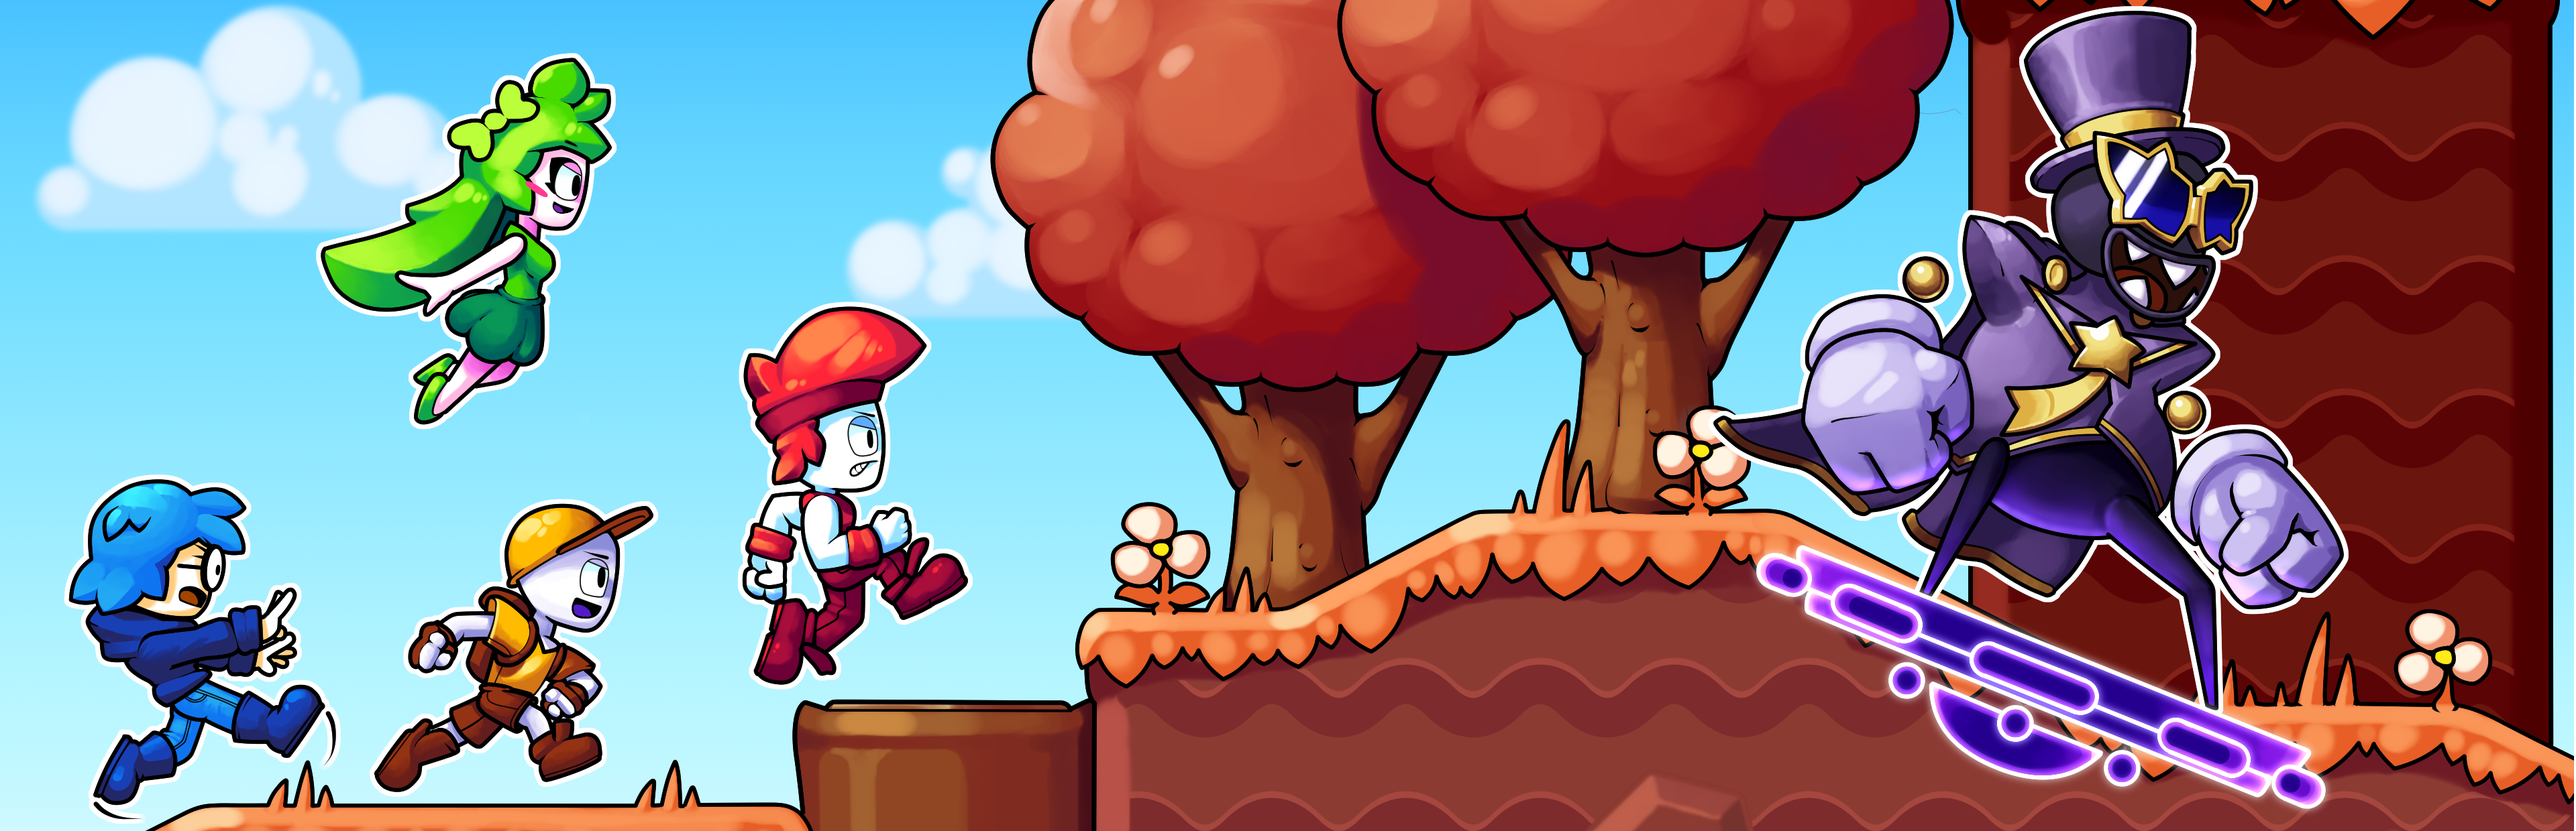
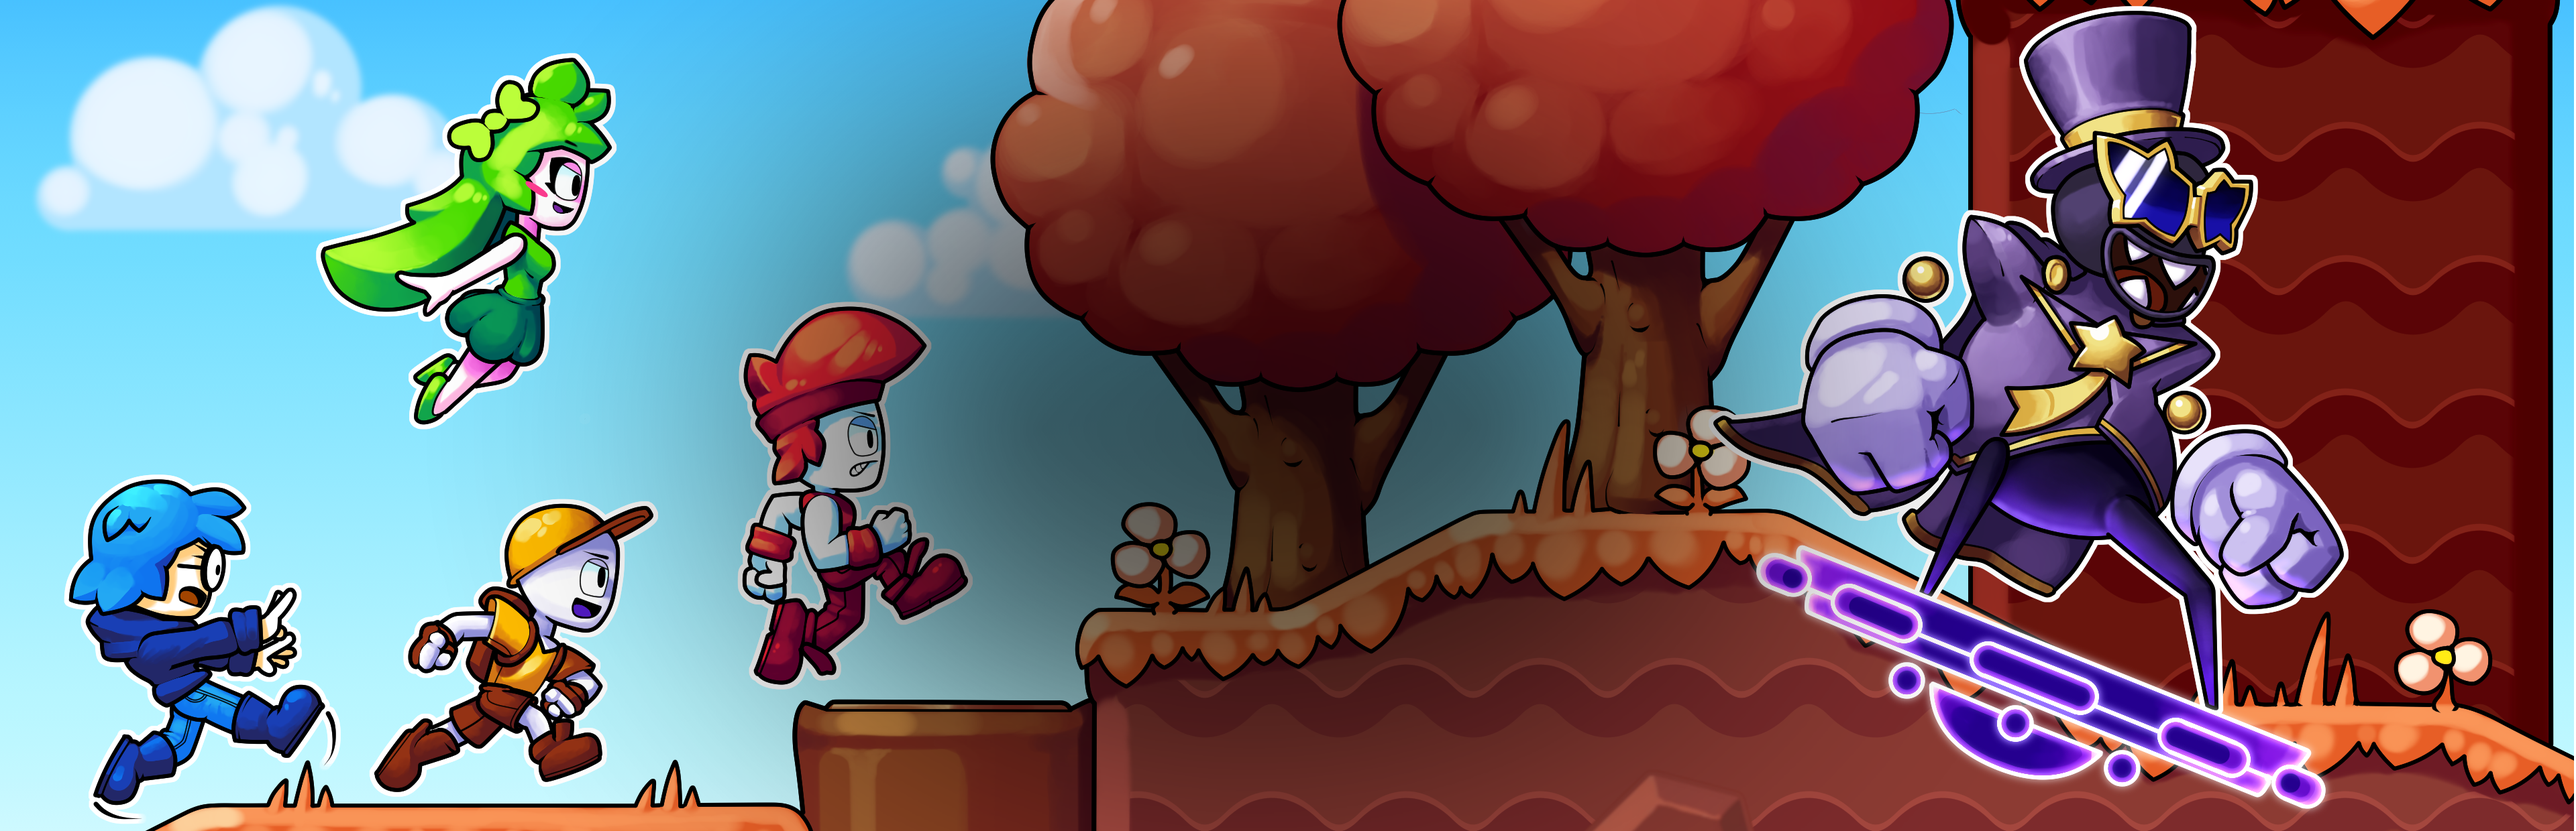
Update layout + begin work on community component

diff --git a/src/components/Home/Community/Community.js b/src/components/Home/Community/Community.js
@@ -1,0 +1,32 @@
+import React from "react";
+import "../Home.scss";
+import "./Community.scss";
+
+function Community() {
+    return (
+        <div className="Community main-container"
+             style={{
+                 backgroundImage: `url(${process.env.PUBLIC_URL + '/vibrant-venture-banner.png'})`
+             }}>
+            <div className="bg-overlay"/>
+            <div className="text-container community-container">
+                <div className="header-text">
+                    Community
+                </div>
+                <div>
+                    We care a lot about our players. <br/>
+                    Have any feedback, ideas or maybe you just want to talk to us?
+                </div>
+                <button>Join the Community</button>
+                <div>
+                    You can find devlogs and content related to Vibrant Venture and our projects on YouTube. <br/>
+                    We also post important news on Twitter.
+                </div>
+                <button>Twitter</button>
+                <button>YouTube</button>
+            </div>
+        </div>
+    );
+}
+
+export default Community;

diff --git a/src/components/Home/VibrantVenture/VibrantVenture.scss b/src/components/Home/VibrantVenture/VibrantVenture.scss
@@ -3,8 +3,8 @@
   border-bottom: 1px solid white;
 }
 
-.vibrant-venture-container {
-  padding-left: 3.5em;
+.VibrantVenture .vibrant-venture-container {
+  padding-left: 6em;
 }
 
 .VibrantVenture .vibrant-venture-header {
@@ -25,11 +25,11 @@
   margin-top: 50px;
 }
 
-.learn-more-btn:hover {
+.VibrantVenture .learn-more-btn:hover {
   background-color: #d5463e;
 }
 
-.learn-more-btn:active {
+.VibrantVenture .learn-more-btn:active {
   position:relative;
   top:1px;
 }

diff --git a/src/components/Content/Content.js b/src/components/Content/Content.js
@@ -1,6 +1,7 @@
 import "./Content.scss"
 import Welcome from "../Home/Welcome/Welcome.js";
 import VibrantVenture from "../Home/VibrantVenture/VibrantVenture.js";
+import Community from "../Home/Community/Community.js";
 import React from "react";
 
 function Content() {
@@ -8,6 +9,7 @@ function Content() {
         <div className="Content">
             <Welcome/>
             <VibrantVenture/>
+            <Community/>
         </div>
     );
 }

diff --git a/src/components/Footer/Footer.scss b/src/components/Footer/Footer.scss
@@ -3,11 +3,17 @@
     display: flex;
     align-items: center;
     align-self: end;
-    justify-content: center;
+    //justify-content: center;
     text-align: center;
     color: #fff;
-    padding-top: 40px;
-    padding-bottom: 40px;
+    padding-top: 10px;
+    padding-bottom: 10px;
     width: 100%;
     font-size: 20px;
+}
+
+.Footer .copyright-text {
+    font-size: 18px;
+    padding-left: 1em;
+    padding-right: 0.75em;
 }

diff --git a/src/components/Footer/Footer.js b/src/components/Footer/Footer.js
@@ -4,7 +4,10 @@ import "./Footer.scss"
 function Footer() {
     return (
         <div className="Footer">
-            © Semag Games 2021
+            <div className="copyright-text">© Semag Games 2021</div>
+            <img src={`${process.env.PUBLIC_URL}leafly-present.png`}
+            width="80"
+            height="80"/>
         </div>
     );
 }

diff --git a/src/components/Home/Community/Community.scss b/src/components/Home/Community/Community.scss
@@ -1,0 +1,15 @@
+.Community {
+  height: 550px;
+  border-bottom: 1px solid white;
+  text-align: right;
+  justify-content: right
+}
+
+.Community .community-container {
+  width: 100%;
+  padding-right: 6em;
+}
+
+.Community discord-btn {
+  
+}

diff --git a/src/components/Home/Home.scss b/src/components/Home/Home.scss
@@ -24,5 +24,5 @@
   position: absolute;
   width: 100%;
   height: 100%;
-  background-color: rgba(0, 0, 0, 0.58);
+  background-color: rgba(0, 0, 0, 0.35);
 }
